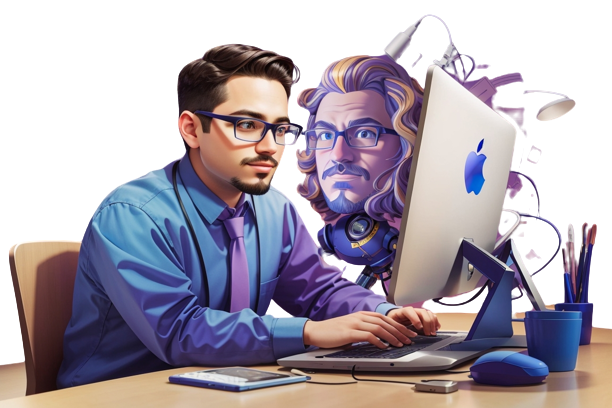
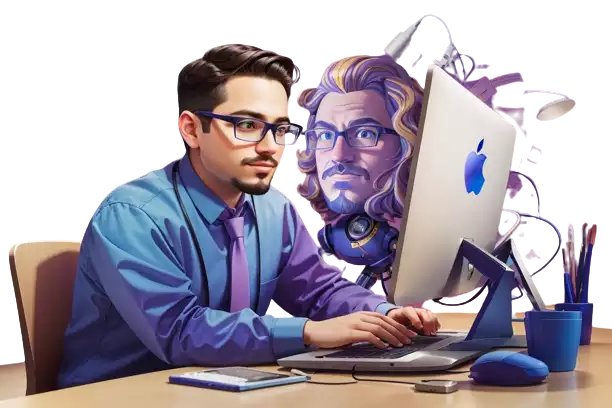
arreglo de tamaño de imagenes

diff --git a/src/app/components/ProjectsSection.jsx b/src/app/components/ProjectsSection.jsx
@@ -7,18 +7,18 @@ import { motion, useInView } from "framer-motion";
 const projectsData = [
   {
   id: 1,
-  title: "Portfolio HTML y CSS",
-  description: "Proyecto de porfolio web wn Html5 y Css3",
+  title: "Web de Spa",
+  description: "Sitio web de spa, creado en WordPress, se optimiza para móviles, utiliza Elementor y ha sido personalizado para una experiencia única",
   image: "/images/projects/1.webp",
-  tag:["All", "Web"],
+  tag:["All", "Web", "Wordpress"],
   gitUrl: "https://github.com/Flavioarzamendia/Portfolio-html-css",
-  previewUrl: "https://curious-druid-fc8e90.netlify.app/",
+  previewUrl: "/",
   },
   {
     id: 2,
     title: "Mi porfolio",
-    description: "Mi porfolio web personal, hecho con Nextjs",
-    image: "/images/projects/2.webp" ,
+    description: "Mi portafolio web personal, un proyecto impulsado por Next.js. Aquí muestro mi dedicación al diseño y desarrollo web, con un toque único que lo distingue",
+    image: "/images/projects/2.webp",
     tag:["All", "Web"],
     gitUrl:"https://github.com/Flavioarzamendia/porfolioEnNextjs",
     previewUrl: "https://flavioarzamendia.vercel.app/",

diff --git a/src/app/layout.js b/src/app/layout.js
@@ -5,8 +5,8 @@ import { Analytics } from '@vercel/analytics/react';
 const inter = Inter({ subsets: ['latin'] })
 
 export const metadata = {
-  title: 'Flavio Arzamendia',
-  description: 'Portfolio Frontend Developer',
+  title: 'Flavio Arzamendia | Desarrollo Web',
+  description: 'Soy un desarrollador web apasionado con experiencia en WordPress, HTML5, CSS3 y JavaScript. Ofrezco servicios de diseño web personalizado.'
 }
 
 export default function RootLayout({ children }) {

diff --git a/src/app/components/HeroSection.jsx b/src/app/components/HeroSection.jsx
@@ -70,6 +70,7 @@ const HeroSection = () => {
             <Image
               src="/images/hero-img.webp"
               alt="hero image"
+              title="Working web developer"
               className="absolute transform -translate-x-1/2 -translate-y-1/2 top-1/2 left-1/2"
               width={300}
               height={300}
